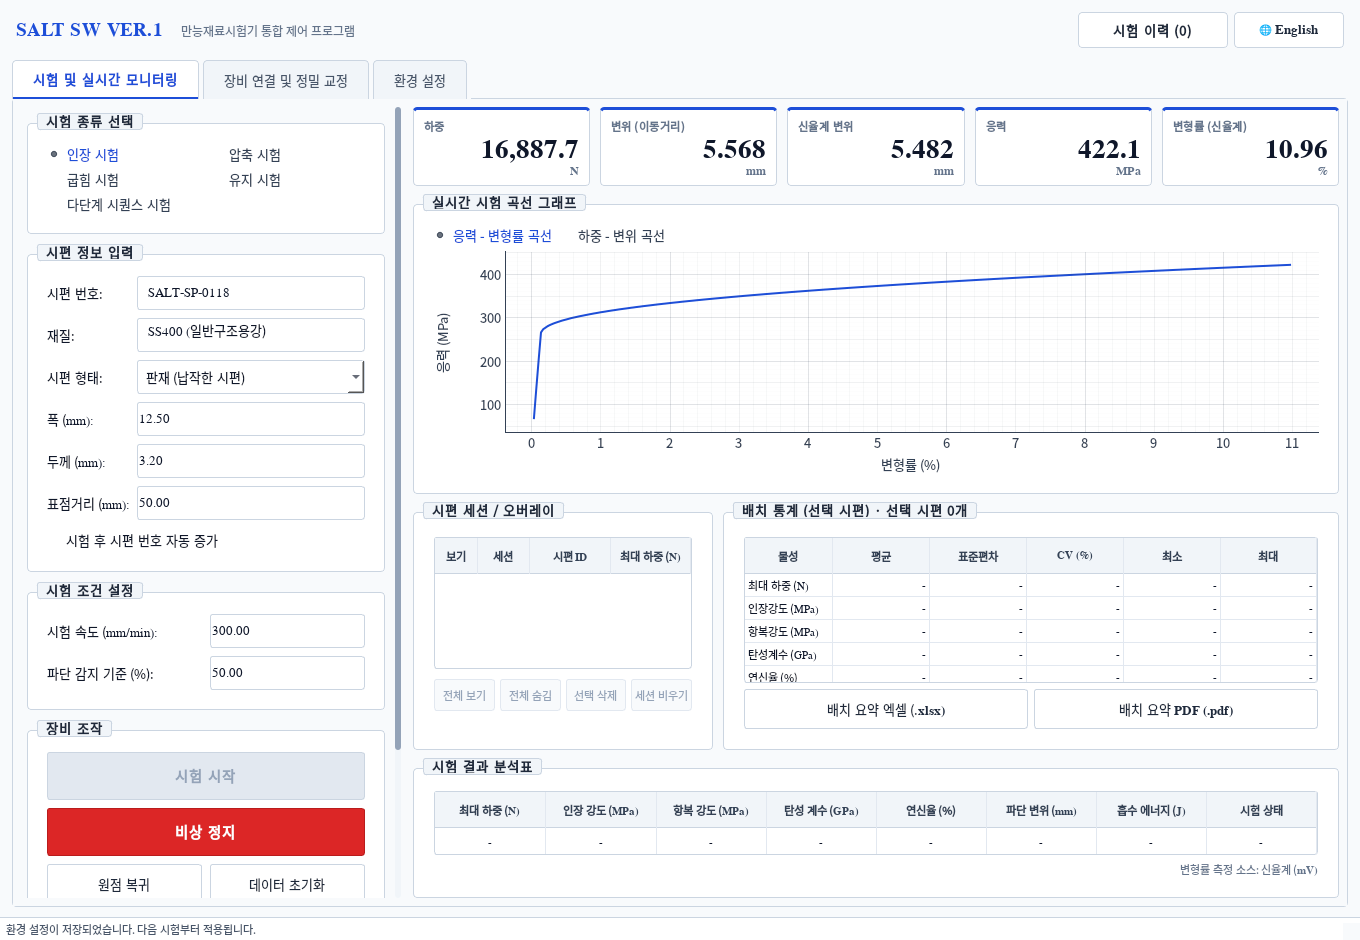
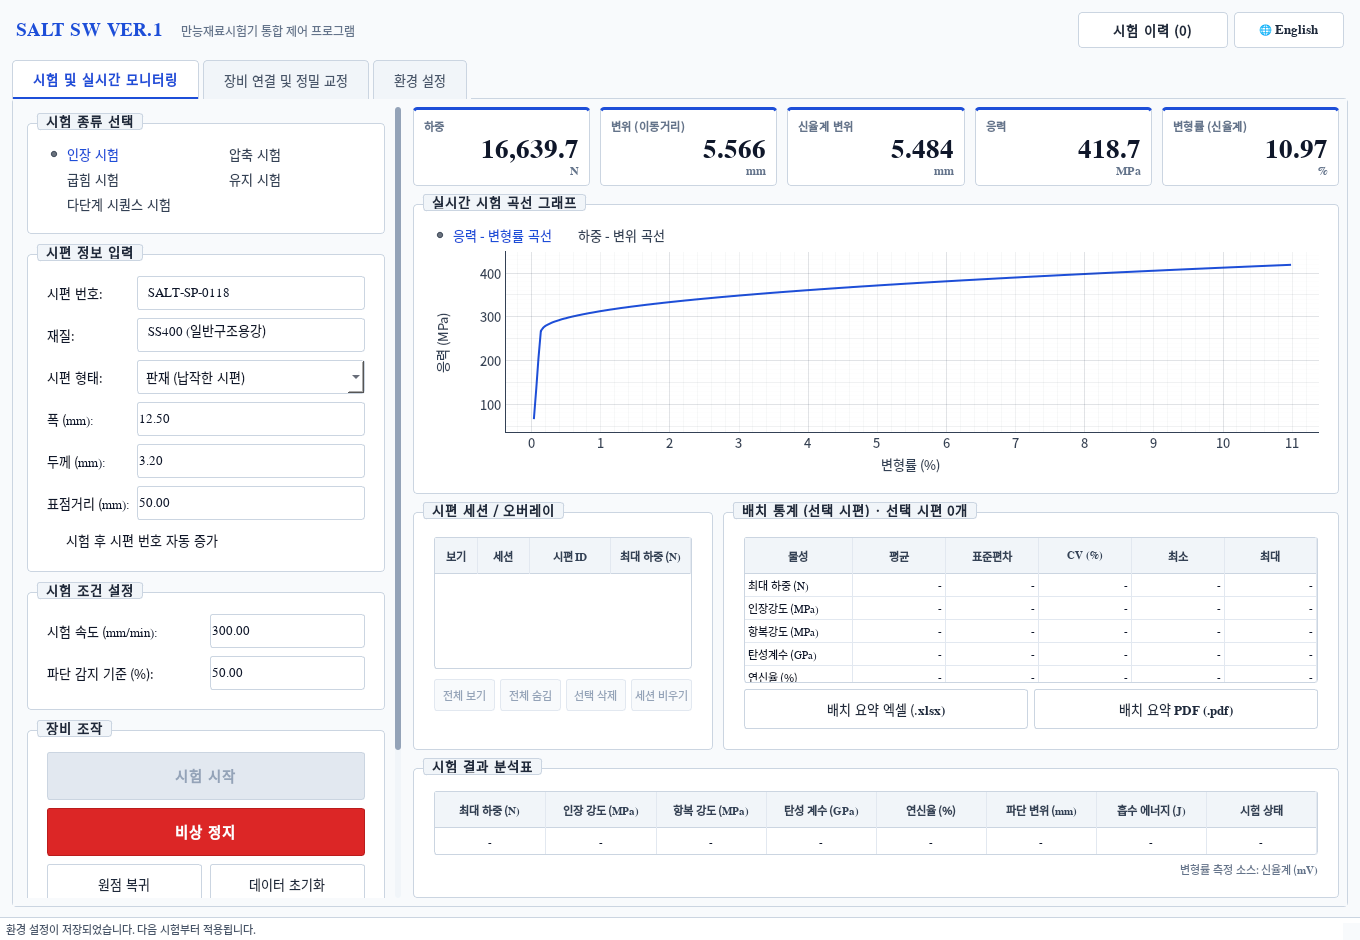
fix: 오버레이/시퀀스 화면 마감 — 단계 라벨 위치, 좁은 창 열 너비, 데모 화면 정합성
- 시퀀스 단계 라벨(S1~S4): 오른쪽 끝 단계는 왼쪽 정렬, 나머지는 선에서 살짝 띄워 잘림 방지
- 배치 통계 물성 열 너비를 창 폭에 맞춰 조정 (최소 창 1120px에서 숫자 잘림 해소, 글꼴 8pt)
- '시험 이력' 버튼이 완료 시험을 실제 경로로 기록하도록 데모 화면 정합성 수정
  (시편 번호 자동 증가 해제, 화면 시편 제원 = 시뮬레이션 시편)
- 스크린샷 재생성 (docs/screenshots 19장)

diff --git a/ui/main_window.py b/ui/main_window.py
@@ -749,14 +749,14 @@ class MainWindow(QMainWindow):
         self.table_batch.verticalHeader().setVisible(False)
         self.table_batch.horizontalHeader().setSectionResizeMode(QHeaderView.ResizeMode.Stretch)
         self.table_batch.horizontalHeader().setSectionResizeMode(0, QHeaderView.ResizeMode.Fixed)
-        self.table_batch.setColumnWidth(0, 88)
+        self.table_batch.setColumnWidth(0, 108)
         self.table_batch.setEditTriggers(QTableWidget.EditTrigger.NoEditTriggers)
         self.table_batch.setSelectionMode(QTableWidget.SelectionMode.NoSelection)
         self.table_batch.setWordWrap(False)
         self.table_batch.setVerticalScrollBarPolicy(Qt.ScrollBarPolicy.ScrollBarAlwaysOff)
         self.table_batch.verticalHeader().setDefaultSectionSize(21)
         self.table_batch.setFixedHeight(146)
-        self.table_batch.setStyleSheet("QTableWidget { font-size: 8.5pt; }")
+        self.table_batch.setStyleSheet("QTableWidget { font-size: 8pt; }")
         for row, (key, _unit, _dec) in enumerate(BATCH_METRICS):
             item = QTableWidgetItem(metric_label(key, "KO"))
             item.setTextAlignment(Qt.AlignmentFlag.AlignLeft | Qt.AlignmentFlag.AlignVCenter)
@@ -1300,6 +1300,7 @@ class MainWindow(QMainWindow):
         super().resizeEvent(event)
         self._adjust_wrapped_labels()
         self._sync_scroll_min_heights()
+        self._fit_batch_metric_column()
 
     def showEvent(self, event):
         super().showEvent(event)
@@ -1789,15 +1790,18 @@ class MainWindow(QMainWindow):
             )
             self.plot_widget.addItem(line)
             self._step_markers.append(line)
-            # 오른쪽 끝에 붙는 단계는 라벨을 왼쪽으로 붙여 잘리지 않게 한다
-            anchor = (-1, 0) if (x_max > 0 and x > x_max * 0.92) else (0, 0)
+            # 오른쪽 끝에 붙는 단계는 라벨을 왼쪽으로 붙이고, 나머지는 선에서 살짝 띄운다
+            if x_max > 0 and x > x_max * 0.92:
+                anchor, offset = (1, 0), -x_max * 0.006
+            else:
+                anchor, offset = (0, 0), x_max * 0.006
             label = pg.TextItem(
                 html=f'<span style="font-size:7pt; color:#475569;">S{int(ev.get("index", 0)) + 1}</span>',
                 anchor=anchor,
             )
             # 단계 시작점이 가까우면 라벨이 겹치므로 계단식으로 높이를 달리 둔다
             stagger = 0.045 * (int(ev.get("index", 0)) % 4)
-            label.setPos(x, top * (0.03 + stagger))
+            label.setPos(x + offset, top * (0.03 + stagger))
             self.plot_widget.addItem(label)
             self._step_markers.append(label)
 
@@ -1943,10 +1947,20 @@ class MainWindow(QMainWindow):
         self._refresh_session_table()
         self._replot_graph()
 
+    def _fit_batch_metric_column(self):
+        """창 폭에 맞춰 물성 열 너비를 조정 (좁은 창에서도 숫자가 잘리지 않게)"""
+        if not hasattr(self, "table_batch"):
+            return
+        width = self.table_batch.viewport().width()
+        target = 108 if width >= 470 else (88 if width >= 390 else 70)
+        if self.table_batch.columnWidth(0) != target:
+            self.table_batch.setColumnWidth(0, target)
+
     def _refresh_batch_table(self):
         """선택(보기) 시편들로 배치 통계 표 갱신"""
         if not hasattr(self, "table_batch"):
             return
+        self._fit_batch_metric_column()
         lang = self.current_lang
         t = TRANSLATIONS[lang]
         stats = self.session.statistics()
